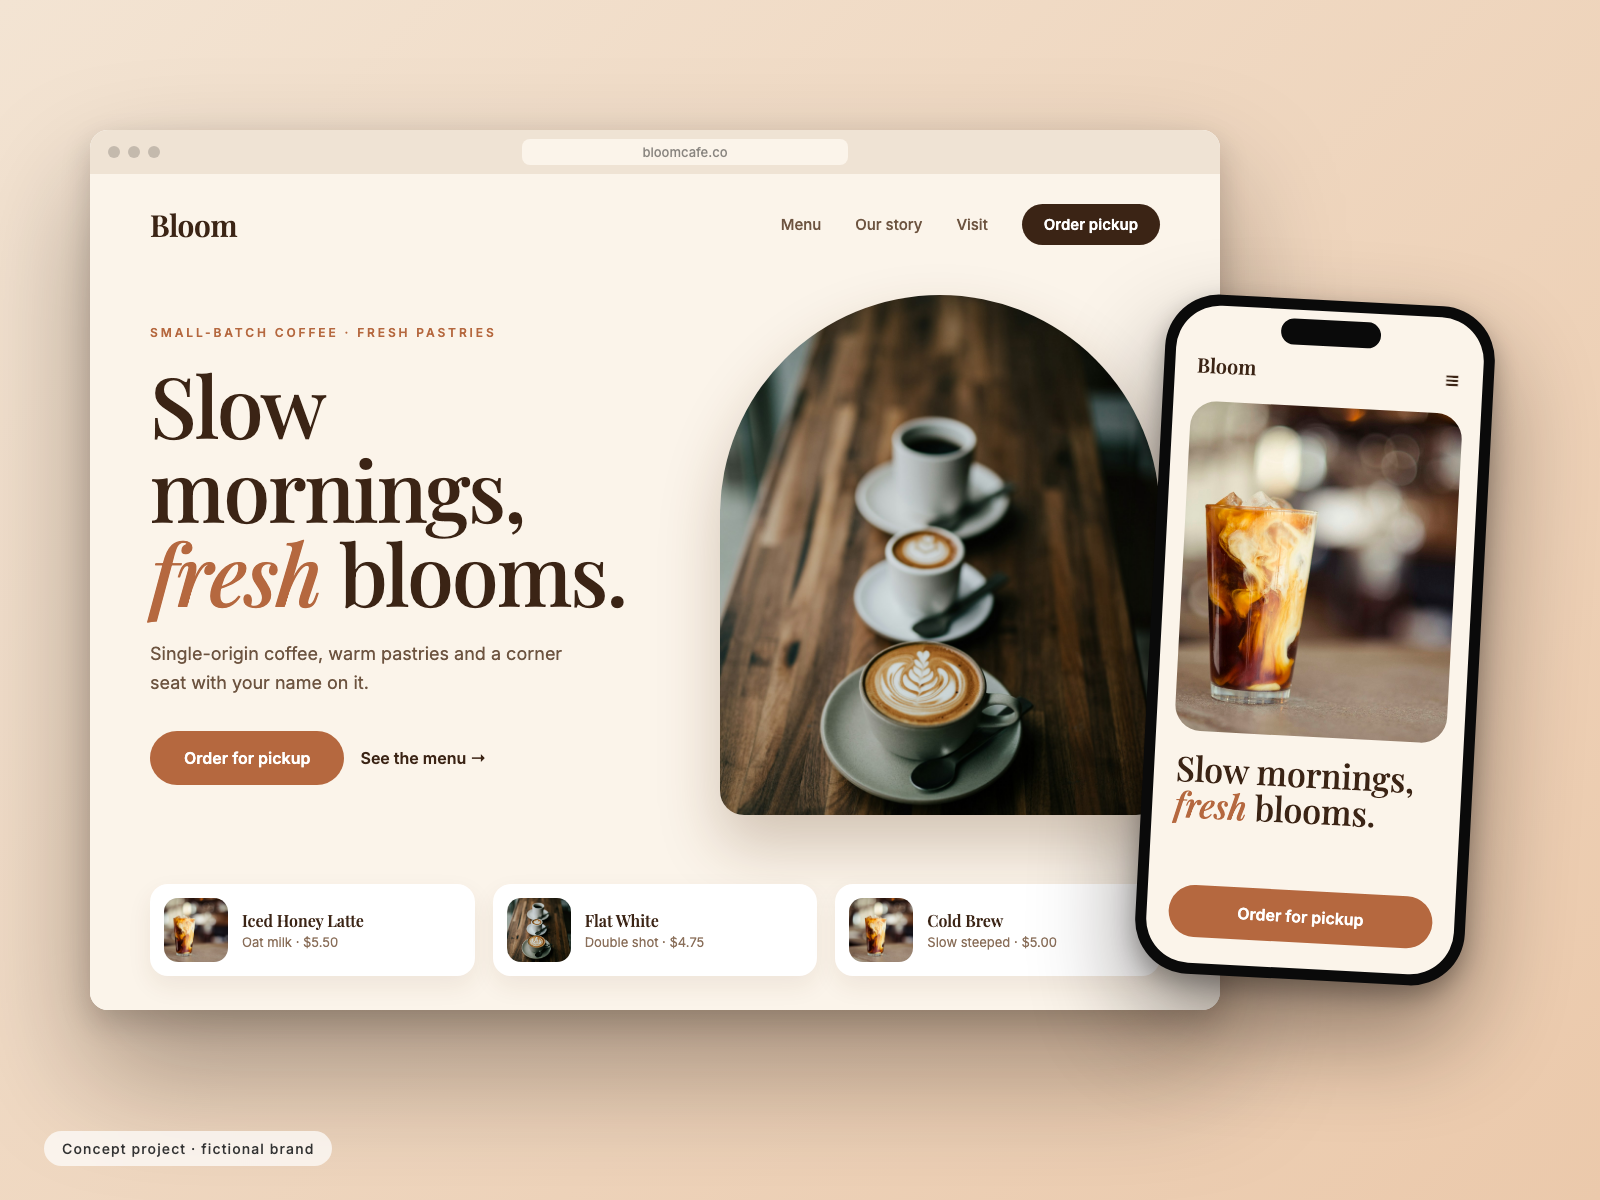
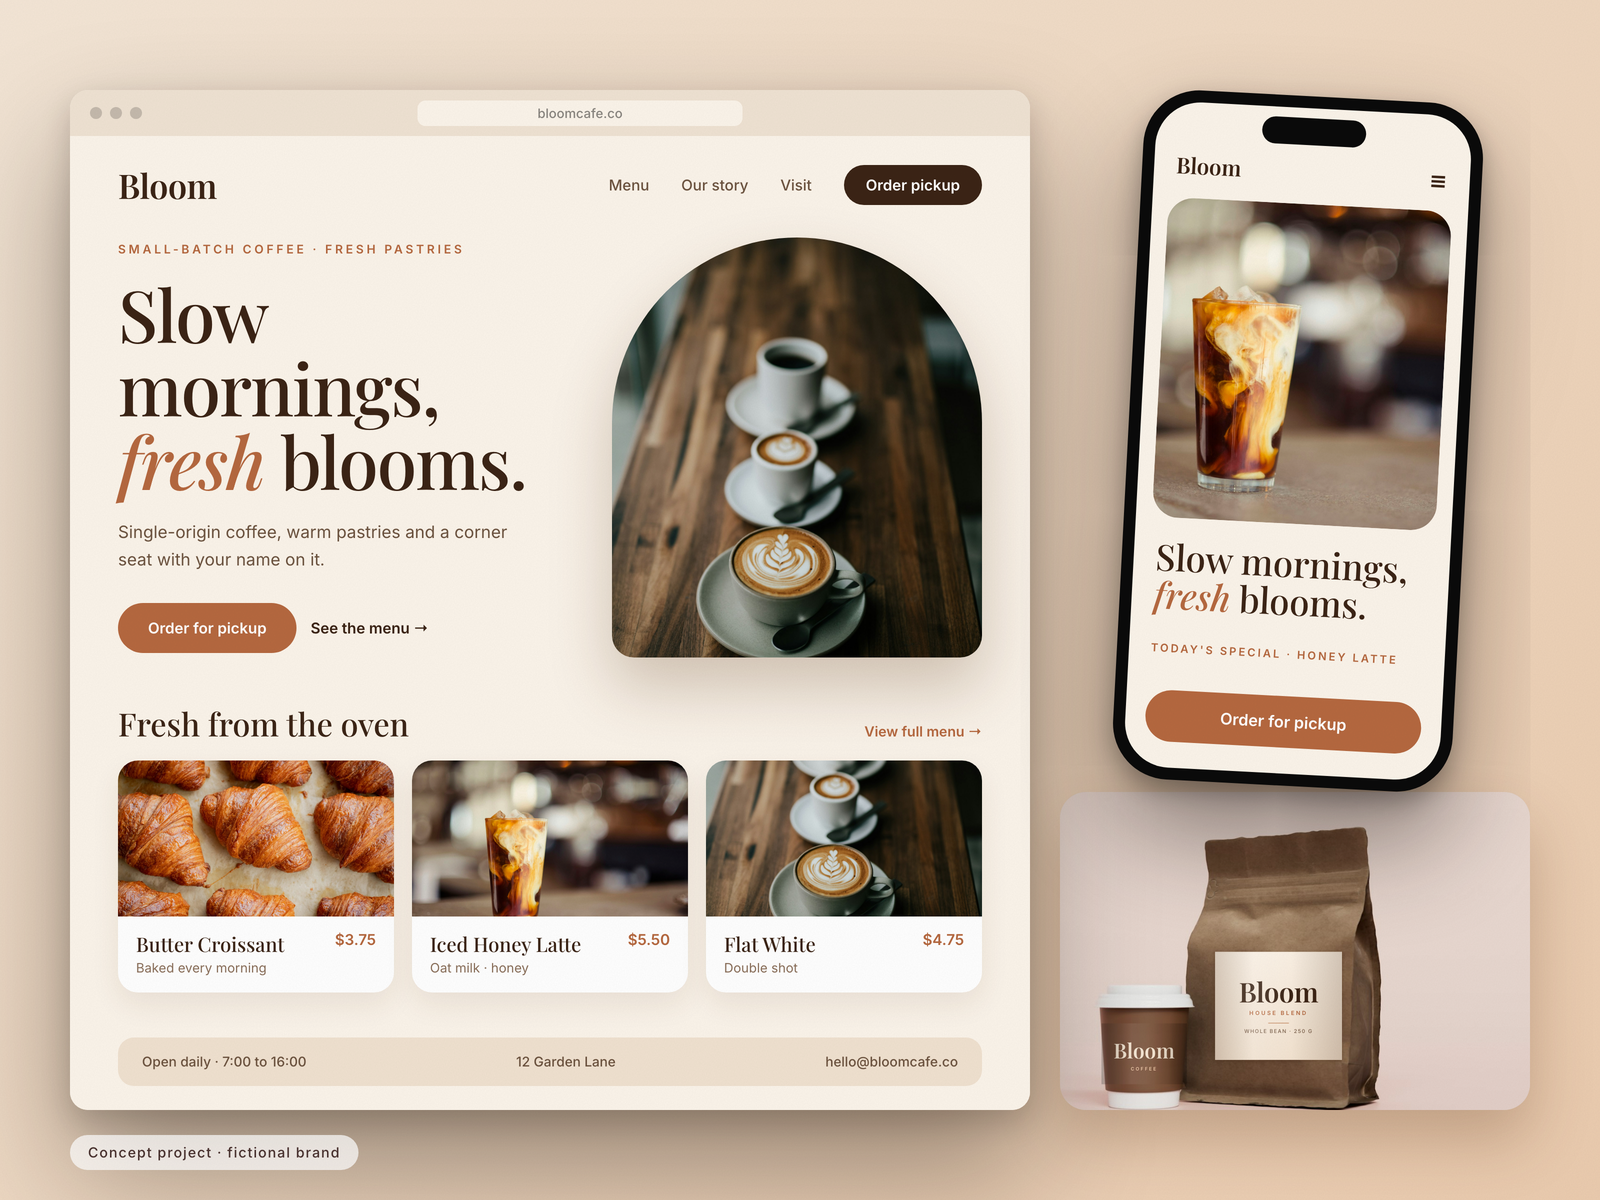
Portfolio: realistic concepts with real photography for Bloom, Northwind, Orbit, Summit

diff --git a/index.html b/index.html
@@ -126,12 +126,12 @@ footer .wrap{display:flex;justify-content:space-between;flex-wrap:wrap;gap:12px}
   <h2>Selected <span>work</span></h2>
   <p class="sub">Concept projects while we onboard our first clients. Partner studios and freelancers will be featured here too.</p>
   <div class="work">
-    <figure class="piece"><img src="assets/work/bloom-cafe-v3.jpg" alt="Concept website for a neighbourhood café, shown on desktop and mobile" loading="lazy" width="1600" height="1200"><figcaption><b>Bloom Café</b><span>Website · Brand</span></figcaption></figure>
-    <figure class="piece"><img src="assets/work/orbit-fitness-v3.jpg" alt="Concept website and app screens for a fitness challenge brand" loading="lazy" width="1600" height="1200"><figcaption><b>Orbit Fitness</b><span>Website · App</span></figcaption></figure>
-    <figure class="piece"><img src="assets/work/northwind-studio-v3.jpg" alt="Concept website for an architecture and interiors studio" loading="lazy" width="1600" height="1200"><figcaption><b>Northwind Studio</b><span>Website</span></figcaption></figure>
+    <figure class="piece"><img src="assets/work/bloom-cafe-v5.jpg" alt="Concept website for a neighbourhood café, shown on desktop and mobile" loading="lazy" width="1600" height="1200"><figcaption><b>Bloom Café</b><span>Website · Brand</span></figcaption></figure>
+    <figure class="piece"><img src="assets/work/orbit-fitness-v5.jpg" alt="Concept website and app screens for a fitness challenge brand" loading="lazy" width="1600" height="1200"><figcaption><b>Orbit Fitness</b><span>Website · App</span></figcaption></figure>
+    <figure class="piece"><img src="assets/work/northwind-studio-v5.jpg" alt="Concept website for an architecture and interiors studio" loading="lazy" width="1600" height="1200"><figcaption><b>Northwind Studio</b><span>Website</span></figcaption></figure>
     <figure class="piece"><img src="assets/work/halo-skincare-v4.jpg" alt="Concept brand identity and packaging for a skincare line" loading="lazy" width="1600" height="1200"><figcaption><b>Halo Skincare</b><span>Brand identity</span></figcaption></figure>
     <figure class="piece"><img src="assets/work/pulse-records-v3.jpg" alt="Concept website and player for an independent record label" loading="lazy" width="1600" height="1200"><figcaption><b>Pulse Records</b><span>Website · Music</span></figcaption></figure>
-    <figure class="piece"><img src="assets/work/summit-co-v3.jpg" alt="Concept website and social post for an outdoor gear brand" loading="lazy" width="1600" height="1200"><figcaption><b>Summit Co.</b><span>Website · Social</span></figcaption></figure>
+    <figure class="piece"><img src="assets/work/summit-co-v5.jpg" alt="Concept website and social post for an outdoor gear brand" loading="lazy" width="1600" height="1200"><figcaption><b>Summit Co.</b><span>Website · Social</span></figcaption></figure>
   </div>
   <p class="note">These are concept projects for fictional brands, made to show our range. Photography by Unsplash contributors. Real client work will be added here as it launches.</p>
 </div></section>
